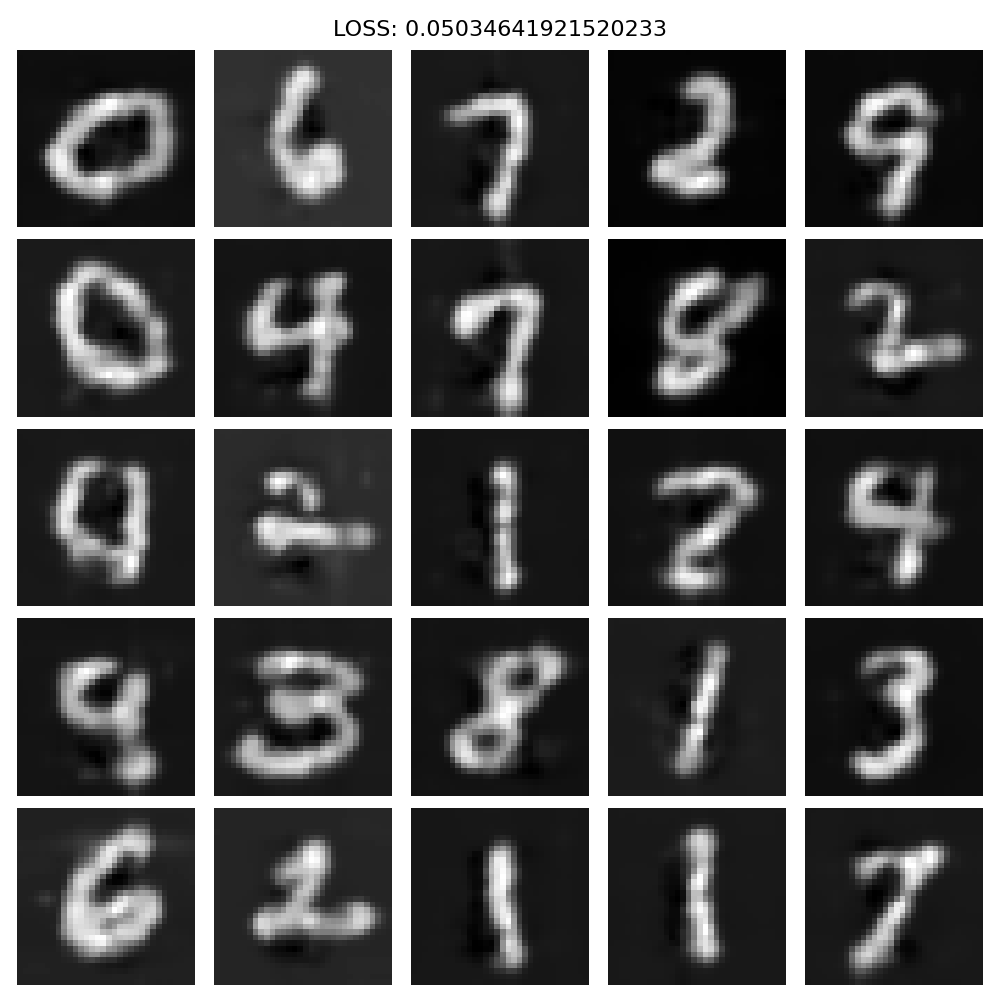
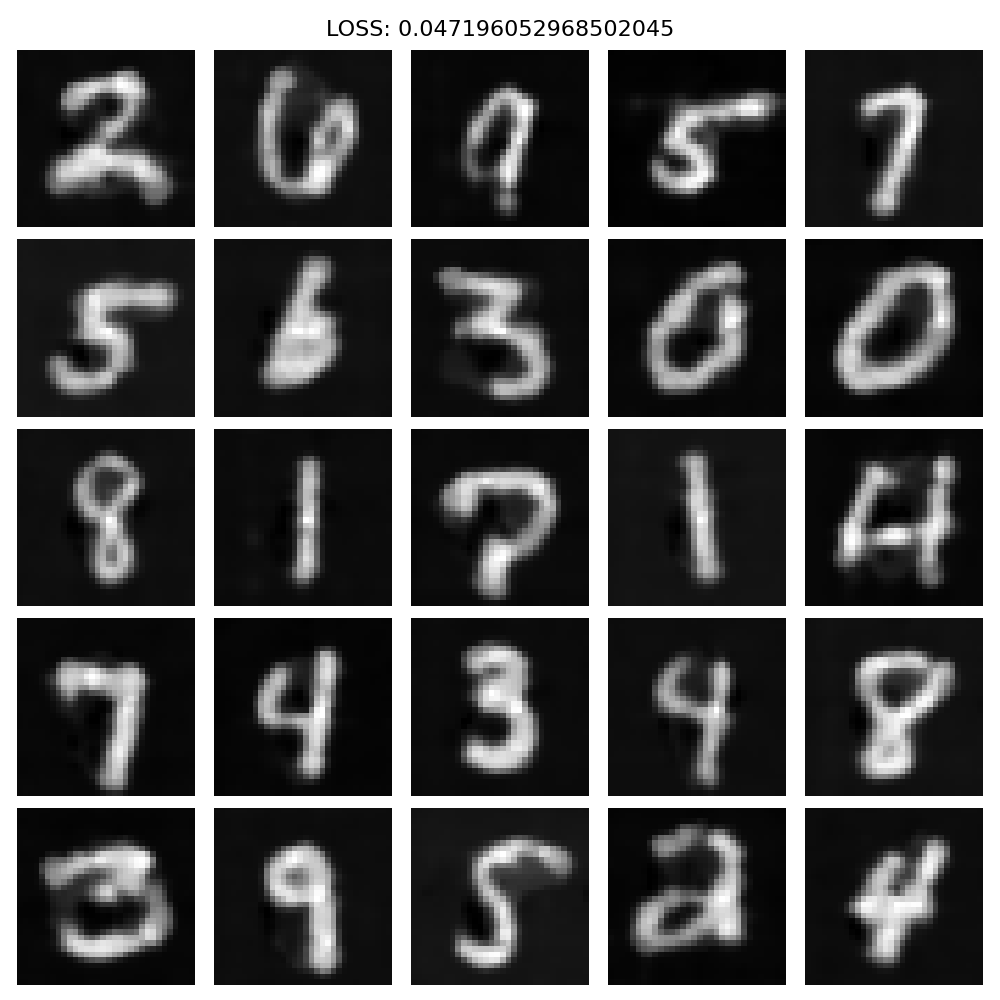
Experimentation shows that keeping the 1/16 encoding fraction for inference results in the best quality; increasing the dec_frac to 1.0 for inference unsurprisingly yields the best results. While the eval loss during training was 0.07765, the real eval loss considering the correct values is 0.04554.

diff --git a/inference_riae.py b/inference_riae.py
@@ -1,6 +1,9 @@
 import torch
 import time
 
+torch.manual_seed(0)
+torch.cuda.manual_seed(0)
+
 import matplotlib.pyplot as plt
 import torch
 from torch import nn
@@ -71,7 +74,7 @@ model.print_model_summary()
 
 from save_load_model import load_checkpoint_into
 
-model = load_checkpoint_into(model, "models/_E20_0.05237_autoencoder_20260226_005648.pt", "cuda")
+model = load_checkpoint_into(model, "models/E20_0.07765_autoencoder_20260226_071710.pt", "cuda")
 
 
 def invert_image(image):
@@ -85,6 +88,7 @@ def uninvert_image(image):
 from tqdm import tqdm
 
 enc_frac = 1 / 16
+dec_frac = 1.0
 
 model.eval()
 test_loss_sum = 0.0
@@ -92,7 +96,7 @@ for i, (image, label) in tqdm(enumerate(test_dloader), total=len(test_dloader), 
     with torch.no_grad():
         image = invert_image(image).to(device)
         lat_img = model.encode(image, fraction=enc_frac)
-        recon_img = model.decode(lat_img)
+        recon_img = model.decode(lat_img, fraction=dec_frac)
         loss = torch.nn.functional.mse_loss(recon_img, image)
         test_loss_sum += loss.item()
         if i == 0:
@@ -104,7 +108,6 @@ for i, (image, label) in tqdm(enumerate(test_dloader), total=len(test_dloader), 
             B, C, H, W = lat_img_uninverted.shape
 
             fig, axes = plt.subplots(C, B, figsize=(B * 2, C * 2))
-            # fig, axes = plt.subplots(C, B)
 
             for batch_idx in range(B):
                 for channel_idx in range(C):
